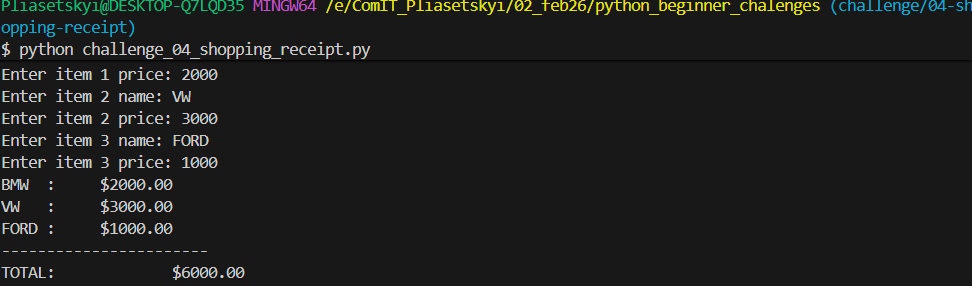
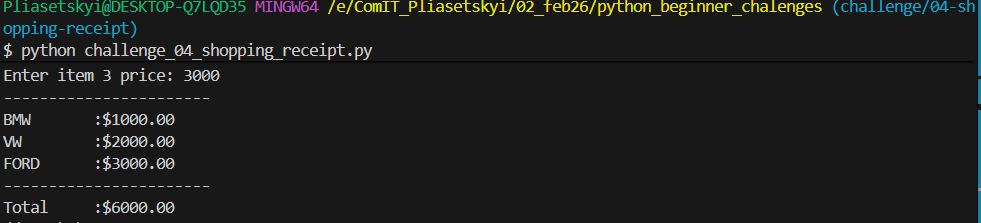
Fix text aligment, renew screenshot

diff --git a/challenge_04_shopping_receipt.py b/challenge_04_shopping_receipt.py
@@ -7,9 +7,10 @@ item3_price = float(input("Enter item 3 price: "))
 
 total_price = item1_price + item2_price + item3_price
 print(
-f"{item1_name:<5}:     ${item1_price:>6.2f}\n"
-f"{item2_name:<5}:     ${item2_price:>6.2f}\n"
-f"{item3_name:<5}:     ${item3_price:>6.2f}\n"
+"-----------------------\n"    
+f"{item1_name:<10}:${item1_price:>6.2f}\n"
+f"{item2_name:<10}:${item2_price:>6.2f}\n"
+f"{item3_name:<10}:${item3_price:>6.2f}\n"
 "-----------------------\n"
-f"TOTAL:             ${total_price:.2f}"
+f"{'Total':<10}:${total_price:>6.2f}"
 )
